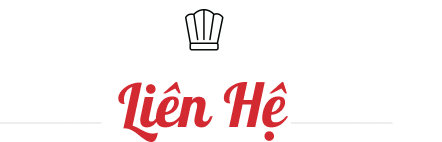
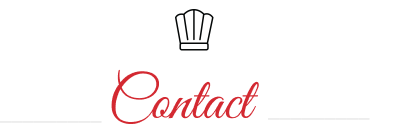
update

Changed region(s): [[0.2482, 0.4857, 0.6516, 1.0], [0.4033, 0.0571, 0.5274, 0.3714]]

diff --git a/HADA/tintuc.html b/HADA/tintuc.html
@@ -49,14 +49,14 @@
 <section class="tintuchome">
 	<div class="anhtopheader">
 		<div class="container text-center">
-			<img src="images/trangchu/head5.png" alt="tintuc" class="img-fluid">
+			<img src="images/trangchu/head4.png" alt="tintuc" class="img-fluid">
 		</div>
 	</div>
 	<div class="maintintuc">
 		<div class="container">
 			<div class="row">
 				<div class="col-lg-4 col-md-6 motkhoi">
-					<a href=""><img src="images/trangchu/tintuc1.png" alt="tintuc1" class="img-fluid"></a>
+					<a href=""><img src="images/tintuc/anhtintuc.png" alt="tintuc1" class="img-fluid"></a>
 					<div class="timedate">
 						<div class="timetintuc">
 							<img src="images/icon/clock.png" alt="clock">
@@ -83,7 +83,7 @@
 				</div>
 
 				<div class="col-lg-4 col-md-6 motkhoi">
-					<a href=""><img src="images/trangchu/tintuc2.png" alt="tintuc2" class="img-fluid"></a>
+					<a href=""><img src="images/tintuc/anhtintuc2.png" alt="tintuc2" class="img-fluid"></a>
 					<div class="timedate">
 						<div class="timetintuc">
 							<img src="images/icon/clock.png" alt="clock">
@@ -110,7 +110,7 @@
 				</div>
 
 				<div class="col-lg-4 col-md-6 motkhoi">
-					<a href=""><img src="images/trangchu/tintuc3.png" alt="tintuc3" class="img-fluid"></a>
+					<a href=""><img src="images/tintuc/anhtintuc3.png" alt="tintuc3" class="img-fluid"></a>
 					<div class="timedate">
 						<div class="container">
 							<div class="row">
@@ -140,7 +140,7 @@
 					</div>
 				</div>
 				<div class="col-lg-4 col-md-6 khoitrang motkhoi">
-					<a href=""><img src="images/trangchu/tintuc1.png" alt="tintuc1" class="img-fluid"></a>
+					<a href=""><img src="images/tintuc/anhtintuc.png" alt="tintuc1" class="img-fluid"></a>
 					<div class="timedate">
 						<div class="timetintuc">
 							<img src="images/icon/clock.png" alt="clock">
@@ -166,7 +166,7 @@
 					</div>
 				</div>
 				<div class="col-lg-4 col-md-6 khoitrang motkhoi">
-					<a href=""><img src="images/trangchu/tintuc1.png" alt="tintuc1" class="img-fluid"></a>
+					<a href=""><img src="images/tintuc/anhtintuc2.png" alt="tintuc1" class="img-fluid"></a>
 					<div class="timedate">
 						<div class="timetintuc">
 							<img src="images/icon/clock.png" alt="clock">
@@ -192,7 +192,7 @@
 					</div>
 				</div>
 				<div class="col-lg-4 col-md-6 khoitrang motkhoi">
-					<a href=""><img src="images/trangchu/tintuc1.png" alt="tintuc1" class="img-fluid"></a>
+					<a href=""><img src="images/tintuc/anhtintuc3.png" alt="tintuc1" class="img-fluid"></a>
 					<div class="timedate">
 						<div class="timetintuc">
 							<img src="images/icon/clock.png" alt="clock">
@@ -218,7 +218,7 @@
 					</div>
 				</div>
 				<div class="col-lg-4 col-md-6 khoitrang motkhoi">
-					<a href=""><img src="images/trangchu/tintuc1.png" alt="tintuc1" class="img-fluid"></a>
+					<a href=""><img src="images/tintuc/anhtintuc.png" alt="tintuc1" class="img-fluid"></a>
 					<div class="timedate">
 						<div class="timetintuc">
 							<img src="images/icon/clock.png" alt="clock">
@@ -244,7 +244,7 @@
 					</div>
 				</div>
 				<div class="col-lg-4 col-md-6 khoitrang motkhoi">
-					<a href=""><img src="images/trangchu/tintuc1.png" alt="tintuc1" class="img-fluid"></a>
+					<a href=""><img src="images/tintuc/anhtintuc2.png" alt="tintuc1" class="img-fluid"></a>
 					<div class="timedate">
 						<div class="timetintuc">
 							<img src="images/icon/clock.png" alt="clock">
@@ -270,7 +270,7 @@
 					</div>
 				</div>
 				<div class="col-lg-4 col-md-6 khoitrang motkhoi">
-					<a href=""><img src="images/trangchu/tintuc1.png" alt="tintuc1" class="img-fluid"></a>
+					<a href=""><img src="images/tintuc/anhtintuc3.png" alt="tintuc1" class="img-fluid"></a>
 					<div class="timedate">
 						<div class="timetintuc">
 							<img src="images/icon/clock.png" alt="clock">

diff --git a/HADA/index.html b/HADA/index.html
@@ -64,7 +64,7 @@
 						</div>
 						<div class="vechungtoi">
 							<h1>
-								Về Chúng Tôi
+								About Us
 							</h1>
 						</div>
 						<div class="gioithieu">
@@ -93,7 +93,7 @@
 	<section class="feature wow fadeInUp" data-wow-delay="0.4s">		
 		<div class="anhtopheader text-center">
 			<div class="container">
-				<img src="images/trangchu/head2.png" alt="" class="img-fluid">
+				<img src="images/trangchu/head1.png" alt="" class="img-fluid">
 			</div>
 		</div>
 		<div class="ctfeature">
@@ -175,7 +175,7 @@
 	<section class="specialhada wow fadeInUp" data-wow-delay="0.4s">
 		<div class="anhtopheader text-center">
 			<div class="container">
-				<img src="images/trangchu/head3.png" alt="" class="img-fluid">
+				<img src="images/trangchu/head2.png" alt="" class="img-fluid">
 			</div>
 		</div>
 		<div class="ctspecial">
@@ -254,7 +254,7 @@
 	<section class="thuvienanhhome wow fadeInUp" data-wow-delay="0.4s">
 		<div class="anhtopheader text-center">
 			<div class="container">
-				<img src="images/trangchu/head4.png" alt="" class="img-fluid">
+				<img src="images/trangchu/head3.png" alt="" class="img-fluid">
 			</div>
 		</div>
 
@@ -324,7 +324,7 @@
 	<section class="tintuchome wow fadeInUp" data-wow-delay="0.4s">
 		<div class="anhtopheader text-center">
 			<div class="container">
-				<img src="images/trangchu/head5.png" alt="" class="img-fluid">
+				<img src="images/trangchu/head4.png" alt="" class="img-fluid">
 			</div>
 		</div>
 
@@ -426,7 +426,7 @@
 			<div class="headerdatban">
 				<img src="images/icon/booking.png" alt="booking" class="img-fluid">
 				<h3>
-					Đặt Bàn
+					Reservation
 				</h3>
 			</div>
 			<div class="formdatban">

diff --git a/HADA/about.html b/HADA/about.html
@@ -76,7 +76,7 @@
 	<section class="feature">		
 		<div class="anhtopheader">
 			<div class="container text-center">
-				<img src="images/trangchu/head2.png" alt="" class="img-fluid">
+				<img src="images/trangchu/head1.png" alt="" class="img-fluid">
 			</div>
 		</div>
 		<div class="ctfeature">
@@ -175,7 +175,7 @@
 	<section class="vedichdu">
 		<div class="anhtopheader">
 			<div class="container text-center">
-				<img src="images/about/headdichvu.png" alt="dichvu" class="img-fluid">
+				<img src="images/about/head5.png" alt="dichvu" class="img-fluid">
 			</div>
 		</div>
 		
@@ -241,7 +241,7 @@
 	<section class="vegiaithuong">
 		<div class="anhtopheader">
 			<div class="container text-center">
-				<img src="images/about/headgiaithuong.png" alt="headgiaithuong" class="img-fluid">
+				<img src="images/about/head6.png" alt="headgiaithuong" class="img-fluid">
 			</div>
 		</div>
 
@@ -261,7 +261,7 @@
 	<section class="vethanhvien">
 		<div class="anhtopheader">
 			<div class="container text-center">
-				<img src="images/about/headthanhvien.png" alt="thanhvien" class="img-fluid">
+				<img src="images/about/head7.png" alt="thanhvien" class="img-fluid">
 			</div>
 		</div>
 

diff --git a/HADA/datban.html b/HADA/datban.html
@@ -201,11 +201,8 @@
 	</section> <!-- HET NHANXET -->
 	<section class="tintuckhuyenmai">
 		<div class="container">
-			<div class="iconkm text-center mb-3">
-				<img src="images/icon/tintuc.png" alt="" class="img-fluid">
-			</div>
-			<div class="sukienkm text-center mb-3">
-				<img src="images/datban/tt.png" alt="" class="img-fluid">
+			<div class="anhtopheader text-center">
+				<img src="images/trangchu/head4.png" alt="" class="img-fluid">
 			</div>
 			<div class="row">
 				<div class="col-xs-12 col-sm-6 col-md-4">

diff --git a/HADA/style.css b/HADA/style.css
@@ -234,7 +234,7 @@ ul li.chamdo a {
 }
 .aboutus .vechungtoi h1 {
 	font-size: 60px;
-	font-family: 'Pattaya', sans-serif;
+	font-family: 'Great Vibes', cursive;
 	color: #D32931;
 	margin: 20px 0;
 }
@@ -610,7 +610,7 @@ ul li.chamdo a {
 	text-align: center;
 	color: #fff;
 	font-size: 60px;
-	font-family: 'Pattaya', sans-serif;
+	font-family: 'Great Vibes', cursive;
 }
 
 .reservationhome .maindatban {

diff --git a/HADA/thuvienanh.html b/HADA/thuvienanh.html
@@ -50,7 +50,7 @@
 <section>
 	<div class="topheader">
 		<div class="container text-center">
-			<img src="images/thuvienanh/head6.png" alt="" class="img-fluid">
+			<img src="images/trangchu/head3.png" alt="" class="img-fluid">
 			<h2>MÓN ĂN MỖI NGÀY</h2>
 		</div>
 	</div>

diff --git a/HADA/datban.css b/HADA/datban.css
@@ -277,7 +277,9 @@ ul li.chamdo a {
 	font-size: 18px;
 	font-weight: bold;
 }
-
+.anhtopheader {
+	margin: 34px 0;
+}
 
 @media (max-width: 767px) {
 	.motkhoi .nutxemthem {
